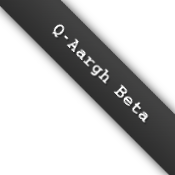
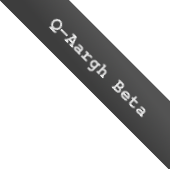
Fixed the extremely ugly beta tag.

diff --git a/application/views/layout.php b/application/views/layout.php
@@ -6,7 +6,7 @@
 		<?= $robots; ?>
 	</head>
 	<body>
-		<?= html::anchor( '/page/beta', html::image( array( 'src' => 'img/qaargh-beta.png', 'style' => 'position: fixed; top: -15px; right: -20px; z-index: 5;' ) ) ) ?>
+		<?= html::anchor( '/page/beta', html::image( array( 'src' => 'img/qaargh-beta.png', 'style' => 'position: absolute; top: 0; right: 0; z-index: 5;' ) ) ) ?>
 		<div id="container">
 			<div id="header">
 				<?= html::anchor( "/", html::image( array( 'src' => 'img/pirate.png', 'with' => 128, 'height' => 128 ), array( 'id' => 'the_captain' ) ), array( 'style' => "float: left;" ) ); ?>
